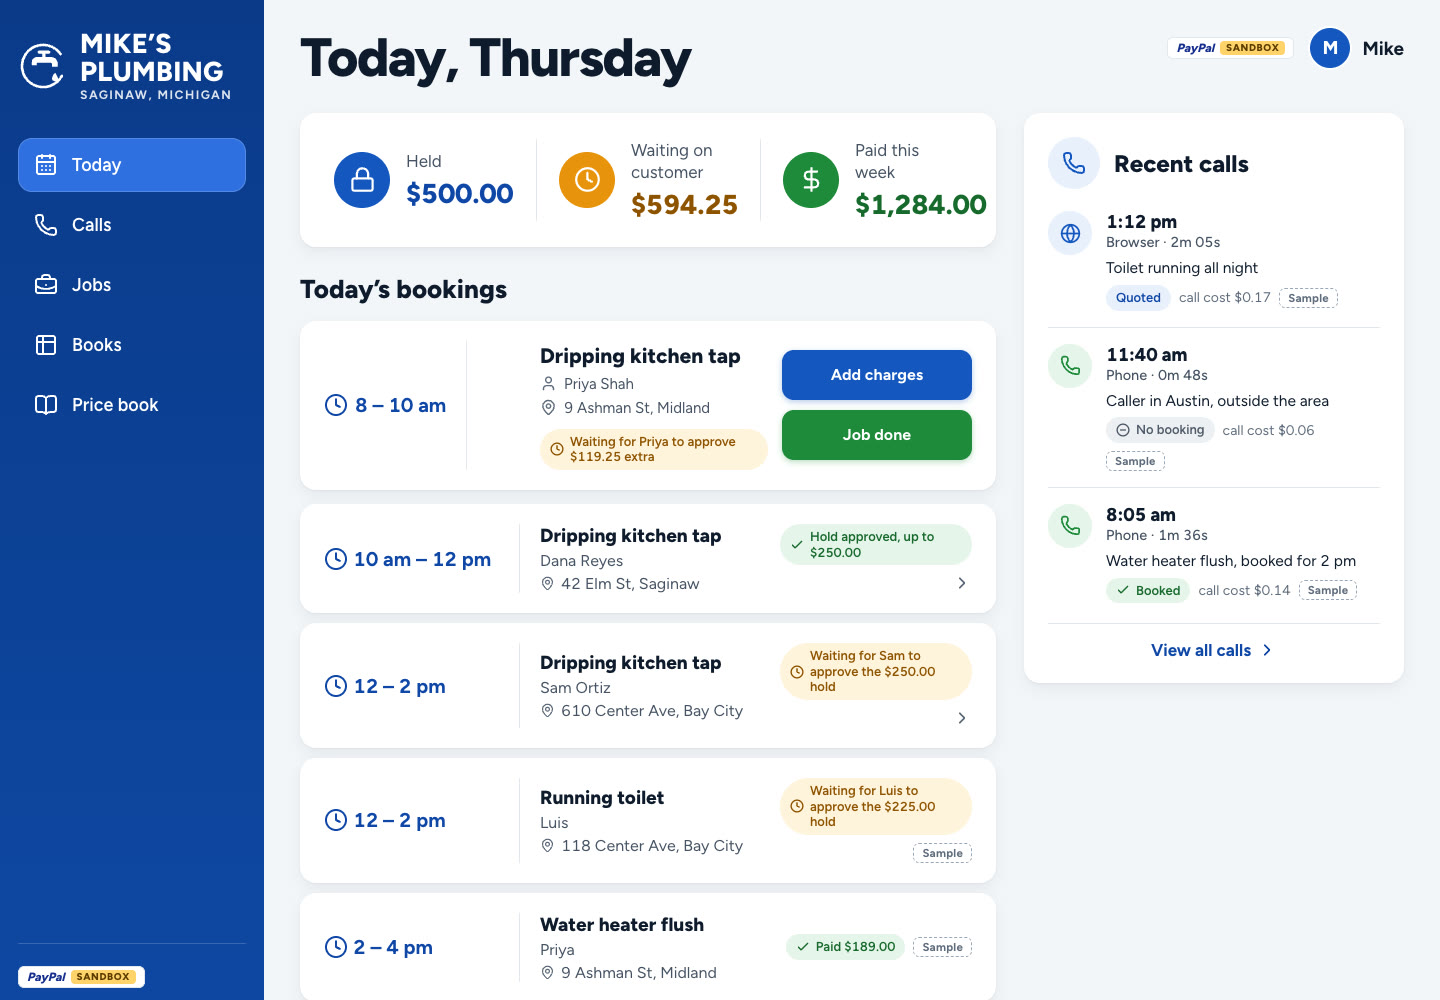
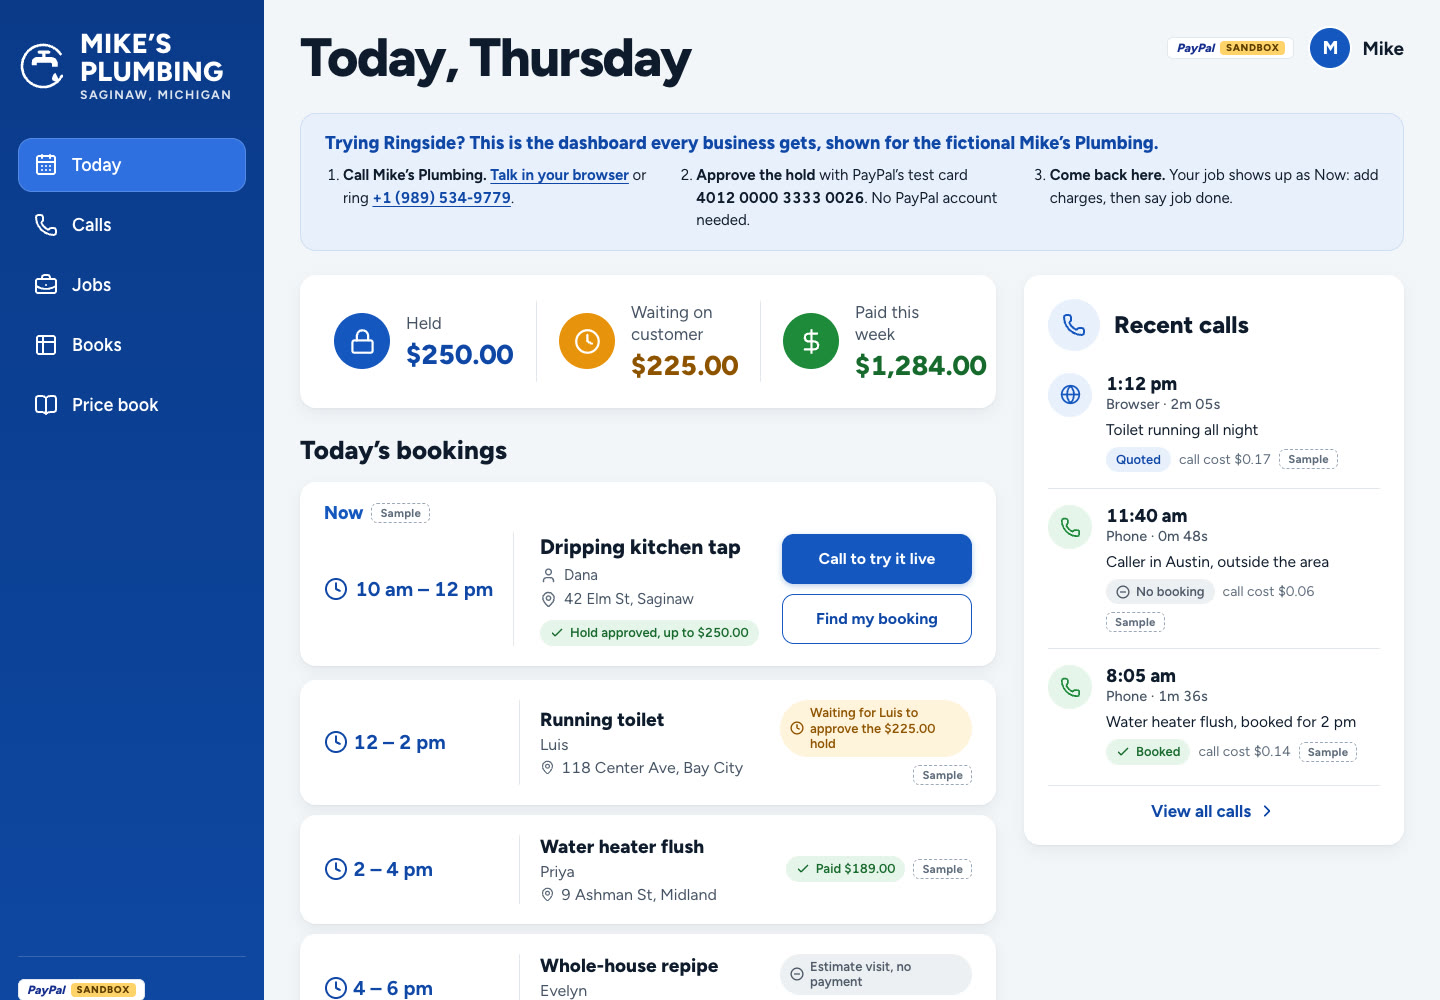
Present Ringside as the product and Mike's Plumbing as its demo business
The landing leads with Ringside: the hero says it is AI front-desk
software for small service businesses, and Mike's Plumbing appears only
as the labelled fictional business set up on Ringside, above the two
doors. The dashboard's guide calls it the dashboard every business gets,
shown for Mike's Plumbing. The README opens the same way, with a new
landing screenshot, the real phone number for judges, and a banner that
labels its screens as the demo business on Ringside. The docs check now
skips tel: links.

diff --git a/src/app/page.tsx b/src/app/page.tsx
@@ -40,35 +40,35 @@ export default function Home() {
 
       <main className={s.main} id="landing-main" suppressHydrationWarning>
         <section className={s.hero} aria-labelledby="headline">
-          <div className={s.mikes}>
-            <span className={s.mikesMark}>
-              <BrandMark size={96} />
-            </span>
-            <span className={s.mikesText}>
-              <span className={s.mikesName}>
-                Mike’s <span>Plumbing</span>
-              </span>
-              <span className={s.mikesPlace}>Saginaw, Michigan</span>
-            </span>
-          </div>
           <div className={s.heroText}>
             <h1 id="headline" className={s.headline}>
               <span>Your phone, answered.</span> <span>Your job, paid.</span>
             </h1>
             <p className={s.lede}>
               <span className={s.ledeLine}>
-                <b>Ringside is the AI front desk for small service businesses.</b>
+                <b>Ringside is AI front-desk software for small service businesses.</b>
               </span>{" "}
-              It answers the call, quotes from the price book, holds the payment with <b className={s.paypal}>PayPal</b>, and
-              charges the real cost when the job is done.
+              It answers their calls, quotes from their price book, holds the payment with <b className={s.paypal}>PayPal</b>,
+              and charges the real cost when the job is done.
             </p>
             <p className={s.forWho}>
-              For plumbers, electricians, HVAC techs, handymen, cleaners and locksmiths. Mike’s Plumbing is the demo.
+              For plumbers, electricians, HVAC techs, handymen, cleaners and locksmiths: anyone who quotes a job, does it,
+              then gets paid.
             </p>
           </div>
         </section>
 
-        <section className={s.doors} aria-label="Try the demo">
+        <div className={s.demoHead}>
+          <span className={s.demoMark} aria-hidden="true">
+            <BrandMark size={30} />
+          </span>
+          <p>
+            <b>See it running for a fictional business, Mike’s Plumbing:</b> a one-person plumber in Saginaw, Michigan, set up
+            on Ringside. Be his customer, or be Mike.
+          </p>
+        </div>
+
+        <section className={s.doors} aria-label="Try Ringside with the demo business">
           <article className={`${s.door} ${s.doorCall}`}>
             <span className={s.doorIcon} aria-hidden="true">
               <Phone strokeWidth={2.4} />

diff --git a/assets/src/banner.html b/assets/src/banner.html
@@ -20,25 +20,27 @@
   .art { position: absolute; top: 0; right: 0; width: 960px; height: 800px; background: linear-gradient(160deg, #0b3a8a, #1557c0); overflow: hidden; }
   .phone { position: absolute; width: 390px; border-radius: 34px; overflow: hidden; border: 10px solid #0d1726; box-shadow: 0 30px 60px rgba(4, 20, 50, .45); background: #fff; }
   .phone img { display: block; width: 100%; }
-  .p1 { left: 90px; top: 70px; transform: rotate(-4deg); }
-  .p2 { left: 500px; top: 120px; transform: rotate(3.5deg); }
+  .p1 { left: 90px; top: 96px; transform: rotate(-4deg); }
+  .p2 { left: 500px; top: 140px; transform: rotate(3.5deg); }
   .tag { position: absolute; padding: 10px 18px; border-radius: 14px; background: #fff; color: #0f1b2d; font-size: 22px; font-weight: 800; box-shadow: 0 10px 24px rgba(4, 20, 50, .3); }
   .t1 { left: 70px; top: 690px; }
-  .t2 { left: 560px; top: 40px; }
+  .t2 { left: 560px; top: 78px; }
+  .demo { position: absolute; left: 40px; top: 24px; padding: 8px 16px; border-radius: 999px; background: rgba(255,255,255,.14); border: 1.5px solid rgba(255,255,255,.4); color: #fff; font-size: 20px; font-weight: 700; }
 </style>
 </head>
 <body>
   <div class="band">
     <div class="mark"><span class="r">R</span>RINGSIDE</div>
     <h1>Your phone, answered.<br><span>Your job, paid.</span></h1>
-    <p>The AI front desk for small service businesses: it takes the call, quotes from the price book, holds the money with PayPal and charges the real cost when the job is done.</p>
+    <p>AI front-desk software for small service businesses: it takes their calls, quotes from their price book, holds the money with PayPal and charges the real cost when the job is done.</p>
     <div class="chips"><span class="chip pp">PayPal sandbox</span><span class="chip ok">Prototype for the PayPal AI Hackathon</span></div>
   </div>
   <div class="art">
     <div class="phone p1"><img src="../screens/app-job.jpg" alt=""></div>
     <div class="phone p2"><img src="../screens/approve-change.jpg" alt=""></div>
     <span class="tag t1">Mike adds charges on site</span>
-    <span class="tag t2">The customer approves $119.25</span>
+    <span class="tag t2">His customer approves $119.25</span>
+    <span class="demo">Demo business on Ringside: Mike’s Plumbing (fictional)</span>
   </div>
 </body>
 </html>

diff --git a/src/app/landing.module.css b/src/app/landing.module.css
@@ -250,6 +250,39 @@
   display: block;
 }
 
+/* The demo business, introduced inside Ringside's page (owner, 2026-11-05: Ringside first, Mike's Plumbing as the
+   fictional example) */
+.demoHead {
+  display: flex;
+  align-items: center;
+  justify-content: center;
+  gap: 12px;
+  margin: 0 0 14px;
+  color: var(--text-2);
+  font-size: 16px;
+  line-height: 1.45;
+  text-align: left;
+}
+
+.demoHead p {
+  margin: 0;
+}
+
+.demoHead b {
+  color: var(--text);
+}
+
+.demoMark {
+  display: grid;
+  place-items: center;
+  flex: none;
+  width: 44px;
+  height: 44px;
+  border-radius: 50%;
+  background: var(--brand-tint);
+  color: var(--brand);
+}
+
 /* Doors */
 .doors {
   display: grid;
@@ -1178,6 +1211,18 @@
 
   .mikes {
     display: none;
+  }
+}
+
+/* Ringside owns the hero at every width: one centred column. */
+.hero {
+  display: block;
+}
+
+@media (min-width: 1024px) and (min-height: 600px) {
+  .demoHead {
+    margin: 0;
+    font-size: clamp(14px, 1.9vh, 16px);
   }
 }
 

diff --git a/src/app/dashboard/page.tsx b/src/app/dashboard/page.tsx
@@ -17,7 +17,7 @@ function TryIt() {
   return (
     <section className={s.tryIt} aria-labelledby="try-title">
       <h2 id="try-title" className={s.tryTitle}>
-        Trying Ringside? This is what Mike sees.
+        Trying Ringside? This is the dashboard every business gets, shown for the fictional Mike’s Plumbing.
       </h2>
       <ol className={s.trySteps}>
         <li>

diff --git a/README.md b/README.md
@@ -75,18 +75,26 @@
 
 </div>
 
-Ringside is the AI front desk for small service businesses: the plumber, electrician, HVAC tech, cleaner or locksmith
-who is the business, the dispatcher and the cashier at once. It answers the call while they are on a job, quotes from
-their own price book, holds the customer's money with PayPal, gets the customer's yes when the job grows on site, and
-charges the real cost when the work is done. The demo business is Mike's Plumbing, which is fictional. Ringside is a
-prototype built for the PayPal AI Hackathon and runs on the PayPal sandbox.
+**Ringside is AI front-desk software for small service businesses**: the plumber, electrician, HVAC tech, cleaner or
+locksmith who is the business, the dispatcher and the cashier at once. A business signs up and gets its own AI phone
+agent, its price book, PayPal payments and a dashboard on its phone. Ringside answers the business's calls while the
+owner is on a job, quotes from the price book, holds the customer's money with PayPal, gets the customer's yes when the
+job grows on site, and charges the real cost when the work is done.
 
-**For the judges:** open the [live demo](https://ringside-4bup.onrender.com), call Mike's Plumbing in the browser (or on
-the phone number in the submission form), approve the hold with PayPal's sandbox test card `4012 0000 3333 0026` (any
-future expiry and code), then open Mike's dashboard to add charges and finish the job. No PayPal account is needed. No
-mic? The call page plays a recorded call.
+**The demo runs one example business on Ringside: Mike's Plumbing**, a fictional one-person plumber in Saginaw,
+Michigan. Its customers, jobs and calls are fictional too. Ringside is a prototype built for the PayPal AI Hackathon and
+runs on the PayPal sandbox.
+
+<img src="assets/screens/landing.jpg" width="100%" alt="Ringside's landing page: 'Ringside is AI front-desk software for small service businesses', then the demo business, Mike's Plumbing, with two doors: call it as a customer, or open the owner's dashboard; below, the call, the hold, the charge and the change order on one job">
+
+**For the judges:** open the [live demo](https://ringside-4bup.onrender.com) and try Ringside as the demo business's
+customer: call Mike's Plumbing in the browser or on **[+1 (989) 534-9779](tel:+19895349779)**, then approve the hold with
+PayPal's sandbox test card `4012 0000 3333 0026` (any future expiry and code; no PayPal account needed). Then open the
+owner's dashboard to add charges and finish the job. No mic? The call page plays a recorded call.
 
 ## How it works
+
+Every business on Ringside runs the same flow; the screens below are the demo business, Mike's Plumbing.
 
 1. **The call.** A customer in Mike's area (the Saginaw Tri-Cities, Michigan) phones the business or calls from the
    browser. The ElevenLabs agent says it is an AI assistant answering for Mike, finds the job in Mike's price book,

diff --git a/PRODUCT.md b/PRODUCT.md
@@ -78,6 +78,9 @@ not an invoicing agent; an invoice exists only for a leftover balance the hold c
 ## Brand Commitments
 
 - Product name: **Ringside**.
+- **Ringside is a SaaS product, not a plumbing service** (owner, 2026-11-05): small service businesses sign up and
+  get their own AI phone agent, price book, PayPal payments and dashboard. Everything public shows Ringside first and
+  Mike's Plumbing only as the fictional example business running on it.
 - **Positioning: Ringside is for every small service business** (owner, 2026-11-05): plumbers, electricians, HVAC,
   handymen, cleaners, locksmiths and others who quote, do the job and charge the real cost. It is not a plumbing app;
   Mike's Plumbing is only the labelled demo business.
